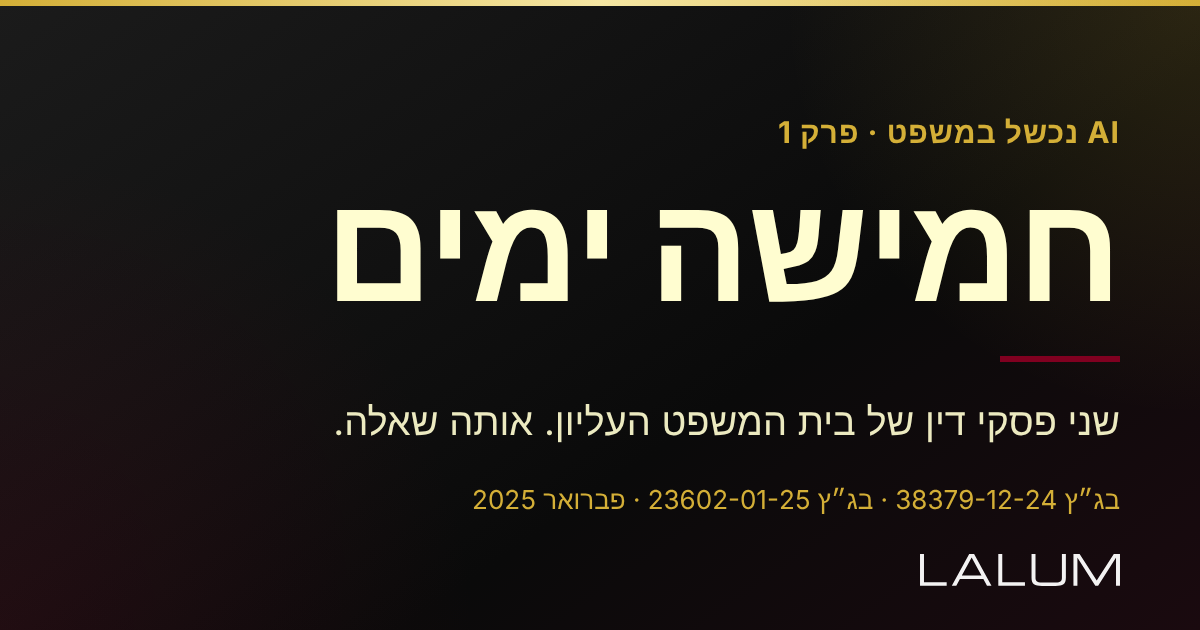
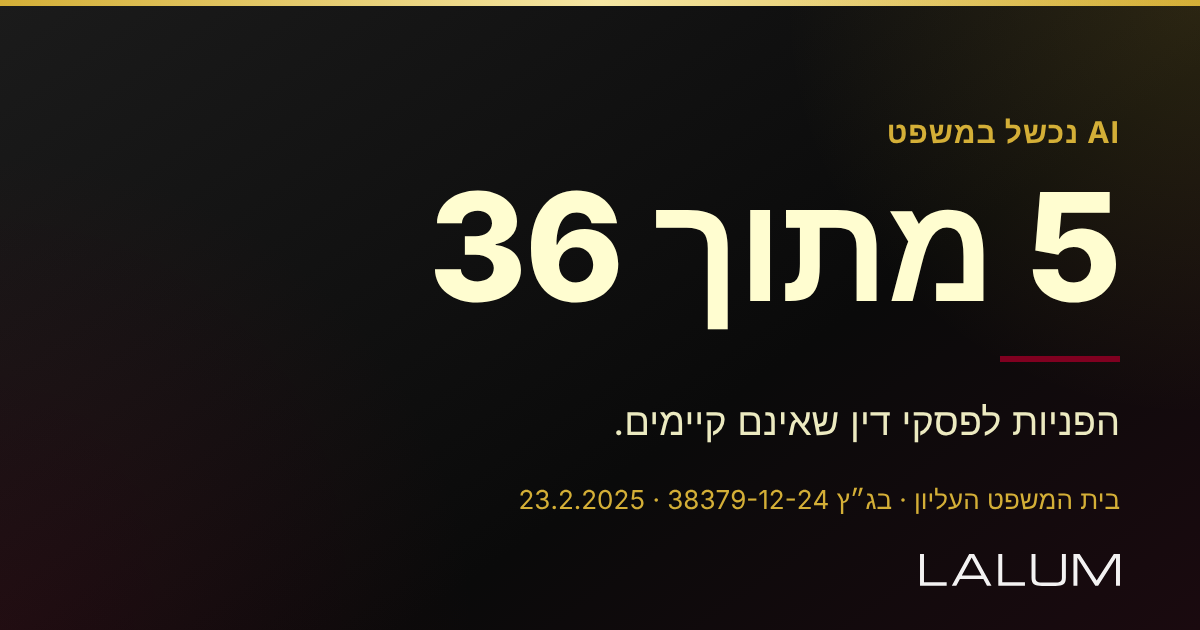
Post 016 reduced to the verified ruling (HCJ 38379-12-24): new text, cards and preview, awaiting explicit approval (#1129)
Claude-Session: https://claude.ai/code/session_01VN3B1wFECr1ho3PKRWAEcK

diff --git a/posts/preview.html b/posts/preview.html
@@ -52,7 +52,92 @@
 
 <!-- POST 010 -->
 <div class="post-block">
-  <div class="campaign-title">פוסט 010 · הפער: ה-AI לא הבעיה, האחריות היא</div>
+  <div class="campaign-title">פוסט 016 | AI נכשל במשפט, גרסה מצומצמת (ממתין לאישור מפורש)</div>
+<div class="post-block">
+  <div class="post-header">
+    <div class="post-num">016</div>
+    <div class="post-meta">תאריך: לקביעה בעת האישור. רק בג״ץ 38379-12-24 (מאומת במאגר). בג״ץ 23602-01-25 הוצא מהפוסט עד לאימות מול פסק הדין.</div>
+  </div>
+  <div class="images-row">
+    <div class="img-wrap">
+      <div class="img-label">Facebook / Telegram (1200×630)</div>
+      <iframe src="images/016_ai_fails_he.html" width="600" height="315" scrolling="no"></iframe>
+    </div>
+    <div class="img-wrap">
+      <div class="img-label">LinkedIn (1200×630)</div>
+      <iframe src="images/016_ai_fails_en.html" width="600" height="315" scrolling="no"></iframe>
+    </div>
+    <div class="img-wrap">
+      <div class="img-label">Instagram (1080×1080)</div>
+      <iframe src="images/016_ai_fails_ig.html" width="270" height="270" scrolling="no"></iframe>
+    </div>
+  </div>
+  <div class="text-cols">
+    <div class="text-col">
+      <div class="text-lang">🇮🇱 עברית, Facebook / Telegram / Instagram</div>
+      <div class="text-body">36 הפניות לפסקי דין. חמש מהן, לפסקי דין שאינם קיימים.
+
+ב-23 בפברואר 2025 הגיעה לבית המשפט העליון עתירה שנסמכה על 36 הפניות לפסקי דין. בבדיקה נמצא שחמש מהן מפנות לפסקי דין שאינם קיימים במאגרים המשפטיים. לפי הסברה, העורכת נסמכה על &quot;אתר שהומלץ לה ע״י קולגות&quot; ולא וידאה את המידע.
+
+בית המשפט נמנע מהטלת סנקציה, כי זה המקרה הראשון מסוגו בעליון, וקבע שפסק הדין משמש אזהרה לעתיד. הסנקציות האפשריות הוגדרו במפורש: סילוק על הסף, הוצאות אישיות על עורך הדין ולא על הלקוח, והליך משמעתי בלשכת עורכי הדין.
+
+ובלשון פסק הדין: &quot;פלט ההזיה שקיבלה נחזה בעיניה כה אמין, עד כי לא טרחה לבדוק את אמיתות תוכנו.&quot;
+
+הפער הוא לא הטכנולוגיה. הוא השלב שבו מישהו בודק.
+
+שלוש בדיקות לפני הגשה (ההצעה שלנו, לא של בית המשפט):
+✓ האם הפסק קיים במאגר?
+✓ האם הציטוט מופיע בו?
+✓ האם הוא באמת תומך בטענה?
+
+הפסק המלא באתר פסקי הדין של בית המשפט העליון: בג״ץ 38379-12-24.
+
+הפוסט מתאר פסק דין אחד ואינו ייעוץ משפטי.
+
+▸ איפה בדיוק נכנס האדם: lalumapp.com/insights/effective-human-oversight-ai-systems
+
+↳ LALUM | ייעוץ Tech-Legal, ממשל AI ונדל״ן
+
+#LegalAI #ממשלAI #AIGovernance #LALUM
+
+תגובה ראשונה: פיקוח אנושי אפקטיבי על מערכות AI: https://lalumapp.com/insights/effective-human-oversight-ai-systems/</div>
+      <div class="platforms"><span class="platform">Facebook</span><span class="platform">Telegram</span><span class="platform">Instagram</span></div>
+    </div>
+    <div class="text-col" dir="ltr">
+      <div class="text-lang">🇬🇧 English, LinkedIn</div>
+      <div class="text-body">36 citations to rulings. Five of them to rulings that do not exist.
+
+On 23 February 2025 the Israeli Supreme Court received a petition built on 36 references to judgments. On checking, five of them point to rulings that do not exist in the legal databases. By her account, counsel had relied on &quot;a site recommended to her by colleagues&quot; and did not verify the information.
+
+The Court refrained from imposing a sanction, because this was the first case of its kind in the Supreme Court, and ruled that the judgment serves as a warning for the future. The possible sanctions were set out expressly: dismissal on the threshold, personal costs on the lawyer rather than the client, and disciplinary proceedings at the Bar Association.
+
+In the words of the judgment (our translation): &quot;The hallucinated output she received seemed to her so credible that she did not bother to check its truth.&quot;
+
+The gap is not the technology. It is the step where someone checks.
+
+Three checks before filing (our suggestion, not the Court&#x27;s):
+✓ Does the ruling exist in the database?
+✓ Does the quotation appear in it?
+✓ Does it actually support the argument?
+
+The full judgment is on the Supreme Court&#x27;s decisions site: HCJ 38379-12-24.
+
+This post describes one judgment and is not legal advice.
+
+▸ Where exactly the human enters (Hebrew): https://lalumapp.com/insights/effective-human-oversight-ai-systems/
+
+Dr. Avraham Lalum, Adv. | LALUM, Tech-Legal advisory in AI and real estate
+
+#LegalAI #AIGovernance #LegalTech #LALUM
+
+First comment: Effective human oversight of AI systems (Hebrew): https://lalumapp.com/insights/effective-human-oversight-ai-systems/</div>
+      <div class="platforms"><span class="platform">LinkedIn</span></div>
+    </div>
+  </div>
+  <div class="schedule">⏸ לא מפורסם. הפרסום רק אחרי שתכתוב "016 מאושר".</div>
+</div>
+
+<div class="campaign-title">פוסט 010 · הפער: ה-AI לא הבעיה, האחריות היא</div>
   <div class="post-header">
     <div class="post-num">010</div>
     <div class="post-meta">מתוזמן: 01.09.2026 08:00</div>

diff --git a/posts/images/016_ai_fails_ig.html b/posts/images/016_ai_fails_ig.html
@@ -21,11 +21,11 @@ body { width:1080px; height:1080px; overflow:hidden; font-family:'Segoe UI',Aria
 <body>
 <div class="card">
   <div class="bar"></div><div class="glow"></div><div class="glow2"></div>
-  <div class="kicker">AI נכשל במשפט · פרק 1</div>
-  <div class="big">חמישה ימים</div>
+  <div class="kicker">AI נכשל במשפט</div>
+  <div class="big">5 מתוך 36</div>
   <div class="rule"></div>
-  <div class="sub">שני פסקי דין של בית המשפט העליון.<br>אותה שאלה.</div>
-  <div class="cases">בג״ץ 38379-12-24 · בג״ץ 23602-01-25 · פברואר 2025</div>
+  <div class="sub">הפניות לפסקי דין שאינם קיימים.</div>
+  <div class="cases">בית המשפט העליון · בג״ץ 38379-12-24 · 23.2.2025</div>
   <svg class="logo" xmlns="http://www.w3.org/2000/svg" viewBox="0 0 442.143 70.759" role="img" aria-label="LALUM">
  <g transform="translate(-76.5661,-264.58572)">
   <path transform="matrix(1,0,0,-1,76.5661,264.58573)" d="M0 0H8.753V-62.253H58.945V-69.986H0Z" fill="#FFFFFF"/>

diff --git a/posts/images/016_ai_fails_he.html b/posts/images/016_ai_fails_he.html
@@ -21,11 +21,11 @@ body { width:1200px; height:630px; overflow:hidden; font-family:'Segoe UI',Arial
 <body>
 <div class="card">
   <div class="bar"></div><div class="glow"></div><div class="glow2"></div>
-  <div class="kicker">AI נכשל במשפט · פרק 1</div>
-  <div class="big">חמישה ימים</div>
+  <div class="kicker">AI נכשל במשפט</div>
+  <div class="big">5 מתוך 36</div>
   <div class="rule"></div>
-  <div class="sub">שני פסקי דין של בית המשפט העליון. אותה שאלה.</div>
-  <div class="cases">בג״ץ 38379-12-24 · בג״ץ 23602-01-25 · פברואר 2025</div>
+  <div class="sub">הפניות לפסקי דין שאינם קיימים.</div>
+  <div class="cases">בית המשפט העליון · בג״ץ 38379-12-24 · 23.2.2025</div>
   <svg class="logo" xmlns="http://www.w3.org/2000/svg" viewBox="0 0 442.143 70.759" role="img" aria-label="LALUM">
  <g transform="translate(-76.5661,-264.58572)">
   <path transform="matrix(1,0,0,-1,76.5661,264.58573)" d="M0 0H8.753V-62.253H58.945V-69.986H0Z" fill="#FFFFFF"/>

diff --git a/posts/images/016_ai_fails_en.html b/posts/images/016_ai_fails_en.html
@@ -21,11 +21,11 @@ body { width:1200px; height:630px; overflow:hidden; font-family:'Segoe UI',Arial
 <body>
 <div class="card">
   <div class="bar"></div><div class="glow"></div><div class="glow2"></div>
-  <div class="kicker">AI fails in court · Episode 1</div>
-  <div class="big">Five days</div>
+  <div class="kicker">AI fails in court</div>
+  <div class="big">5 of 36</div>
   <div class="rule"></div>
-  <div class="sub">Two Israeli Supreme Court judgments. One question.</div>
-  <div class="cases">HCJ 38379-12-24 · HCJ 23602-01-25 · February 2025</div>
+  <div class="sub">citations to rulings that do not exist.</div>
+  <div class="cases">Israeli Supreme Court · HCJ 38379-12-24 · 23.2.2025</div>
   <svg class="logo" xmlns="http://www.w3.org/2000/svg" viewBox="0 0 442.143 70.759" role="img" aria-label="LALUM">
  <g transform="translate(-76.5661,-264.58572)">
   <path transform="matrix(1,0,0,-1,76.5661,264.58573)" d="M0 0H8.753V-62.253H58.945V-69.986H0Z" fill="#FFFFFF"/>

diff --git a/posts/016_ai_fails_he.md b/posts/016_ai_fails_he.md
@@ -1,18 +1,19 @@
-# פוסט 016 | AI נכשל במשפט, פרק 1: חמישה ימים | עברית
+# פוסט 016 | AI נכשל במשפט: 36 הפניות | עברית (גרסה מצומצמת)
 **פלטפורמות:** Facebook, Telegram, Instagram
-**תאריך:** 2026-10-20 (הצעה, לקביעה בעת האישור)
-**סטטוס:** טיוטה, ממתין לאישור.
-**מצורף:** סרטון `posts/ai-fails/episode-01-five-days.mp4` (60 שניות, אנכי, ללא קול). העלאת הסרטון ידנית. כרטיס התמונה: `images/016_ai_fails_he.png` (לפייסבוק וטלגרם) ו-`images/016_ai_fails_ig.png` (לאינסטגרם).
+**תאריך:** לקביעה בעת האישור
+**סטטוס:** טיוטה מצומצמת, ממתינה לאישור מפורש ("016 מאושר"). לא פורסמה.
+**מצורף:** כרטיסי תמונה `images/016_ai_fails_he.png` (פייסבוק וטלגרם) ו-`images/016_ai_fails_ig.png` (אינסטגרם).
+**למה מצומצם:** בגרסה הקודמת הופיעו פרטים על בג״ץ 23602-01-25 (תאריך, שופט, תוצאה, הוצאות וציטוט) שלא אומתו מול פסק הדין ואינם במאגר הפסיקה המאומת. הפרטים הוצאו. כל מה שבפוסט נשען על הרשומה המאומתת של בג״ץ 38379-12-24 (`lalum-app/src/data/rulings.json`, שלושה מקורות).
 
 ---
 
-חמישה ימים הפרידו בין שני פסקי דין של בית המשפט העליון על אותה שאלה.
+36 הפניות לפסקי דין. חמש מהן, לפסקי דין שאינם קיימים.
 
-ב-23 בפברואר 2025 נדחתה עתירה שנסמכה על 36 פסקי דין. בין ההפניות, חמש היו לפסקי דין שכלל אינם קיימים במאגרים. באת כוח העותרת הסבירה שהסתמכה על "אתר שהומלץ לה ע״י קולגות". בית המשפט העריך ש"בסבירות גבוהה" מדובר באתר מבוסס בינה מלאכותית, ולא נקט נגדה סנקציה, כי זה "מקרה ראשון מסוגו". אבל הוסיף: "אין זו זכות אלא חובה".
+ב-23 בפברואר 2025 הגיעה לבית המשפט העליון עתירה שנסמכה על 36 הפניות לפסקי דין. בבדיקה נמצא שחמש מהן מפנות לפסקי דין שאינם קיימים במאגרים המשפטיים. לפי הסברה, העורכת נסמכה על "אתר שהומלץ לה ע״י קולגות" ולא וידאה את המידע.
 
-ב-28 בפברואר, עתירה אחרת. "טרם יבשה הדיו", כתב השופט סולברג. העתירה נדחתה על הסף, מחוסר ניקיון כפיים, והעותרת חויבה ב-7,000 ש״ח. ובסוף הפסק: "מעתה ואילך, יוחזקו העוסקים במלאכה כ׳מותרים ועומדים׳; התגובה השיפוטית […] תשתנה בהתאם."
+בית המשפט נמנע מהטלת סנקציה, כי זה המקרה הראשון מסוגו בעליון, וקבע שפסק הדין משמש אזהרה לעתיד. הסנקציות האפשריות הוגדרו במפורש: סילוק על הסף, הוצאות אישיות על עורך הדין ולא על הלקוח, והליך משמעתי בלשכת עורכי הדין.
 
-שימו לב למה שלא נאמר. לא נאמר שאסור להשתמש ב-AI. נאמר: "אל לנו לשפוך את התינוק עם המים", ושאין להסתמך על הכלי "הסתמכות עיוורת".
+ובלשון פסק הדין: "פלט ההזיה שקיבלה נחזה בעיניה כה אמין, עד כי לא טרחה לבדוק את אמיתות תוכנו."
 
 הפער הוא לא הטכנולוגיה. הוא השלב שבו מישהו בודק.
 
@@ -21,12 +22,13 @@
 ✓ האם הציטוט מופיע בו?
 ✓ האם הוא באמת תומך בטענה?
 
-הסרטון (60 שניות) מצורף. הפסקים המלאים באתר פסקי הדין של בית המשפט העליון: בג״ץ 38379-12-24 ובג״ץ 23602-01-25.
+הפסק המלא באתר פסקי הדין של בית המשפט העליון: בג״ץ 38379-12-24.
 
-*הפוסט מתאר שני פסקי דין ואינו ייעוץ משפטי.*
+הפוסט מתאר פסק דין אחד ואינו ייעוץ משפטי.
 
-▸ איפה בדיוק נכנס האדם: lalumapp.com/ai-legal-advisory/human-oversight
+▸ איפה בדיוק נכנס האדם: lalumapp.com/insights/effective-human-oversight-ai-systems
 
-↳ **LALUM | ייעוץ Tech-Legal, ממשל AI ונדל״ן**
+↳ LALUM | ייעוץ Tech-Legal, ממשל AI ונדל״ן
 
 #LegalAI #ממשלAI #AIGovernance #LALUM
+תגובה ראשונה: פיקוח אנושי אפקטיבי על מערכות AI: https://lalumapp.com/insights/effective-human-oversight-ai-systems/

diff --git a/posts/016_ai_fails_en.md b/posts/016_ai_fails_en.md
@@ -1,19 +1,20 @@
-# Post 016 | AI fails in court, episode 1: Five days | English
+# Post 016 | AI fails in court: 36 citations | English (reduced version)
 **Platform:** LinkedIn (English)
-**Date:** 2026-10-20 (proposed, to be set on approval)
-**Status:** Draft, awaiting approval.
-**Attached:** video `posts/ai-fails/episode-01-five-days.mp4` (60 seconds, vertical, silent; its on-screen text is Hebrew). Upload manually. Card image: `images/016_ai_fails_en.png`.
-**Note on quotations:** the judgments are in Hebrew. The quotations below are our translation of the official text. One Hebrew idiom in the closing paragraph of the second judgment is deliberately left out of the English text rather than translated by guesswork; the Hebrew post quotes it in the original.
+**Date:** to be set on approval
+**Status:** Reduced draft, awaiting explicit approval ("016 מאושר"). Not published.
+**Attached:** card image `images/016_ai_fails_en.png`.
+**Why reduced:** the earlier version stated details of HCJ 23602-01-25 (date, justice, outcome, costs, quotation) that were not verified against the judgment and are not in the verified rulings corpus. They were removed. Everything here rests on the verified record of HCJ 38379-12-24 (`lalum-app/src/data/rulings.json`, three sources).
+**Note on quotations:** the judgment is in Hebrew. The quotation below is our translation of the official text.
 
 ---
 
-Five days separated two Israeli Supreme Court judgments on the same question.
+36 citations to rulings. Five of them to rulings that do not exist.
 
-On 23 February 2025 the Court dismissed a petition built on 36 cited rulings. Among the references, five were to rulings that do not exist in the legal databases. Counsel explained she had relied on "a site recommended to her by colleagues". The Court assessed it was "highly likely" an AI based site, and took no action against her because this was "a first of its kind". It added: "this is not a right but a duty".
+On 23 February 2025 the Israeli Supreme Court received a petition built on 36 references to judgments. On checking, five of them point to rulings that do not exist in the legal databases. By her account, counsel had relied on "a site recommended to her by colleagues" and did not verify the information.
 
-On 28 February, a different petition. "The ink had not yet dried," Justice Solberg wrote. It was dismissed on the threshold for lack of clean hands, with costs of NIS 7,000. And the judgment ends with a message to the profession: "From now on [...] the judicial response [...] will change accordingly."
+The Court refrained from imposing a sanction, because this was the first case of its kind in the Supreme Court, and ruled that the judgment serves as a warning for the future. The possible sanctions were set out expressly: dismissal on the threshold, personal costs on the lawyer rather than the client, and disciplinary proceedings at the Bar Association.
 
-Note what was not said. The Court did not say AI must not be used. It said: "we must not throw the baby out with the bathwater", and that lawyers may not rely on these tools "blindly".
+In the words of the judgment (our translation): "The hallucinated output she received seemed to her so credible that she did not bother to check its truth."
 
 The gap is not the technology. It is the step where someone checks.
 
@@ -22,12 +23,13 @@ Three checks before filing (our suggestion, not the Court's):
 ✓ Does the quotation appear in it?
 ✓ Does it actually support the argument?
 
-The 60 second video is attached (Hebrew on-screen text). The full judgments are on the Supreme Court's decisions site: HCJ 38379-12-24 and HCJ 23602-01-25.
+The full judgment is on the Supreme Court's decisions site: HCJ 38379-12-24.
 
-This post describes two judgments and is not legal advice.
+This post describes one judgment and is not legal advice.
 
-▸ Where exactly the human enters (Hebrew): https://lalumapp.com/ai-legal-advisory/human-oversight/
+▸ Where exactly the human enters (Hebrew): https://lalumapp.com/insights/effective-human-oversight-ai-systems/
 
 Dr. Avraham Lalum, Adv. | LALUM, Tech-Legal advisory in AI and real estate
 
 #LegalAI #AIGovernance #LegalTech #LALUM
+First comment: Effective human oversight of AI systems (Hebrew): https://lalumapp.com/insights/effective-human-oversight-ai-systems/
